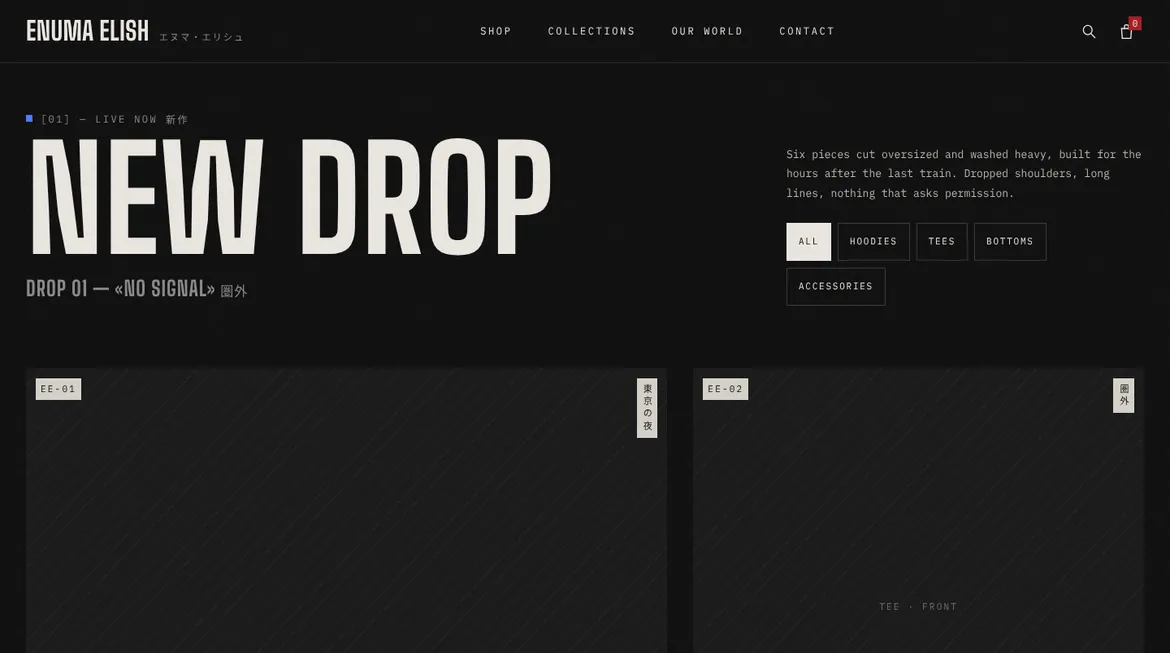
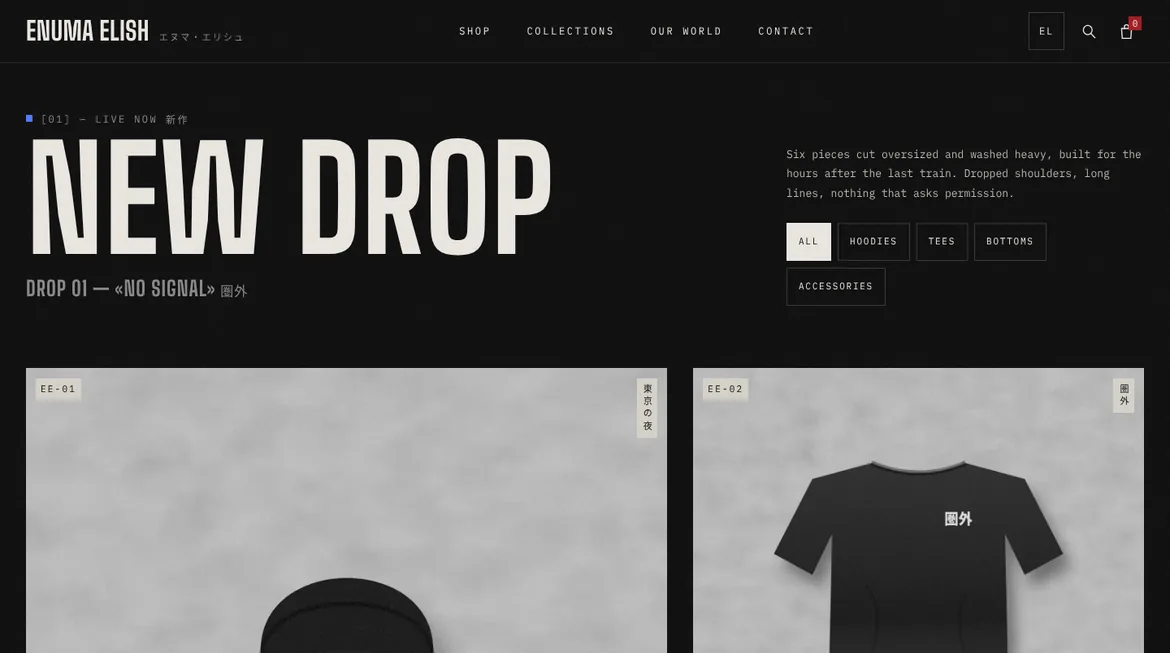
ENUMA demo: illustrated product and campaign visuals
19 original illustrations drawn in code (garment flat-lays, flash-lit wall
shots, Tokyo/Athens/campaign night scenes) replace the grey photo slots; the
concept note says the visuals are illustrations. Fix: the mobile hero grid
rule no longer collapses the desktop photo column. Portfolio previews and
og.jpg re-rendered.

Claude-Session: https://claude.ai/code/session_0146u7BHBs6wRtDsbGD3dXUU

diff --git a/enuma/js/data.js b/enuma/js/data.js
@@ -50,7 +50,7 @@ window.EE_DATA = {
       model: 'Model is 183 cm and wears size M.',
       fabric: ['480 GSM brushed-back fleece, 100% cotton', 'Garment-dyed and enzyme washed', 'Double-layer hood, heavy rib cuffs and hem'],
       care: 'Cold wash inside out. Do not tumble dry. Iron on the reverse of the print.',
-      images: [{ src: null, label: 'Hoodie · front' }, { src: null, label: 'Hoodie · on model' }, { src: null, label: 'Hoodie · back print' }]
+      images: [{ src: 'img/p1-a.webp', label: 'Hoodie · front' }, { src: 'img/p1-b.webp', label: 'Hoodie · on model' }, { src: 'img/p1-c.webp', label: 'Hoodie · back print' }]
     },
     {
       handle: 'no-signal-tee',
@@ -69,7 +69,7 @@ window.EE_DATA = {
       model: 'Model is 178 cm and wears size L.',
       fabric: ['240 GSM combed cotton jersey', 'Water-based screen print', 'Taped neck, double-needle hems'],
       care: 'Cold wash inside out. Line dry.',
-      images: [{ src: null, label: 'Tee · front' }, { src: null, label: 'Tee · back print' }]
+      images: [{ src: 'img/p2-a.webp', label: 'Tee · front' }, { src: 'img/p2-b.webp', label: 'Tee · back print' }]
     },
     {
       handle: 'exarchia-wall-tee',
@@ -88,7 +88,7 @@ window.EE_DATA = {
       model: 'Model is 175 cm and wears size M.',
       fabric: ['240 GSM combed cotton jersey', 'Discharge print, soft to the touch', 'Taped neck, double-needle hems'],
       care: 'Cold wash inside out. Line dry.',
-      images: [{ src: null, label: 'Tee · front' }, { src: null, label: 'Tee · detail' }]
+      images: [{ src: 'img/p3-a.webp', label: 'Tee · front' }, { src: 'img/p3-b.webp', label: 'Tee · detail' }]
     },
     {
       handle: 'last-train-cargo-pant',
@@ -107,7 +107,7 @@ window.EE_DATA = {
       model: 'Model is 183 cm and wears size M.',
       fabric: ['Brushed cotton twill, 320 GSM', 'Six pockets, YKK zip fly', 'Drawcord hem'],
       care: 'Cold wash inside out. Do not tumble dry.',
-      images: [{ src: null, label: 'Cargo · front' }, { src: null, label: 'Cargo · on model' }]
+      images: [{ src: 'img/p4-a.webp', label: 'Cargo · front' }, { src: 'img/p4-b.webp', label: 'Cargo · on model' }]
     },
     {
       handle: 'shibuya-static-crewneck',
@@ -126,7 +126,7 @@ window.EE_DATA = {
       model: 'Model is 180 cm and wears size L.',
       fabric: ['420 GSM loopback cotton', 'Garment-dyed', 'Rib collar, cuffs and hem'],
       care: 'Cold wash inside out. Do not tumble dry.',
-      images: [{ src: null, label: 'Crewneck · front' }, { src: null, label: 'Crewneck · on model' }]
+      images: [{ src: 'img/p5-a.webp', label: 'Crewneck · front' }, { src: 'img/p5-b.webp', label: 'Crewneck · on model' }]
     },
     {
       handle: 'monastiraki-track-pant',
@@ -145,15 +145,15 @@ window.EE_DATA = {
       model: 'Model is 178 cm and wears size M.',
       fabric: ['Brushed poly-cotton tricot', 'Side stripe tape', 'Zipped ankles and pockets'],
       care: 'Cold wash. Line dry.',
-      images: [{ src: null, label: 'Track pant · front' }, { src: null, label: 'Track pant · on model' }]
+      images: [{ src: 'img/p6-a.webp', label: 'Track pant · front' }, { src: 'img/p6-b.webp', label: 'Track pant · on model' }]
     }
   ],
   media: {
-    hero: { src: null, label: 'Hero · lifestyle', alt: 'A figure in the Tokyo After Dark Hoodie on a backstreet stairway at night', altEl: 'Μια φιγούρα με το Tokyo After Dark Hoodie σε σκάλες στενού τη νύχτα' },
-    tokyo: { src: null, label: 'Tokyo street', alt: 'A Tokyo backstreet at night', altEl: 'Ένα στενό στο Τόκιο τη νύχτα' },
-    athens: { src: null, label: 'Athens street', alt: 'Painted walls in Exarchia, Athens', altEl: 'Ζωγραφισμένοι τοίχοι στα Εξάρχεια, Αθήνα' },
-    campaign1: { src: null, label: 'Campaign 01', alt: 'Campaign photo on backstreet stairs', altEl: 'Φωτογραφία campaign σε σκάλες στενού' },
-    campaign2: { src: null, label: 'Campaign 02', alt: 'Campaign photo in Exarchia, Athens', altEl: 'Φωτογραφία campaign στα Εξάρχεια, Αθήνα' },
-    campaign3: { src: null, label: 'Campaign 03', alt: 'Campaign photo in Shibuya after the last train', altEl: 'Φωτογραφία campaign στη Shibuya μετά το τελευταίο τρένο' }
+    hero: { src: 'img/hero.webp', label: 'Hero · lifestyle', alt: 'A figure in the Tokyo After Dark Hoodie on a backstreet stairway at night', altEl: 'Μια φιγούρα με το Tokyo After Dark Hoodie σε σκάλες στενού τη νύχτα' },
+    tokyo: { src: 'img/tokyo.webp', label: 'Tokyo street', alt: 'A Tokyo backstreet at night', altEl: 'Ένα στενό στο Τόκιο τη νύχτα' },
+    athens: { src: 'img/athens.webp', label: 'Athens street', alt: 'Painted walls in Exarchia, Athens', altEl: 'Ζωγραφισμένοι τοίχοι στα Εξάρχεια, Αθήνα' },
+    campaign1: { src: 'img/campaign-1.webp', label: 'Campaign 01', alt: 'Campaign photo on backstreet stairs', altEl: 'Φωτογραφία campaign σε σκάλες στενού' },
+    campaign2: { src: 'img/campaign-2.webp', label: 'Campaign 02', alt: 'Campaign photo in Exarchia, Athens', altEl: 'Φωτογραφία campaign στα Εξάρχεια, Αθήνα' },
+    campaign3: { src: 'img/campaign-3.webp', label: 'Campaign 03', alt: 'Campaign photo in Shibuya after the last train', altEl: 'Φωτογραφία campaign στη Shibuya μετά το τελευταίο τρένο' }
   }
 };

diff --git a/enuma/js/i18n.js b/enuma/js/i18n.js
@@ -26,7 +26,7 @@ window.EE_EL = {
   'NEW ARRIVALS': 'ΝΕΕΣ ΑΦΙΞΕΙΣ', 'HOODIES': 'HOODIES', 'T-SHIRTS': 'T-SHIRTS', 'BOTTOMS': 'ΠΑΝΤΕΛΟΝΙΑ',
   'HELP': 'ΒΟΗΘΕΙΑ', 'SHIPPING': 'ΑΠΟΣΤΟΛΗ', 'RETURNS': 'ΕΠΙΣΤΡΟΦΕΣ', 'SIZE GUIDE': 'ΟΔΗΓΟΣ ΜΕΓΕΘΩΝ', 'PRIVACY': 'ΑΠΟΡΡΗΤΟ',
   'Concept project by': 'Concept έργο της',
-  '. ENUMA ELISH is a fictional brand: products, prices, stock and policies are samples. The bag works, but checkout and forms are demo-only and send nothing.': '. Το ENUMA ELISH είναι φανταστικό brand: τα προϊόντα, οι τιμές, το απόθεμα και οι πολιτικές είναι δείγματα. Το καλάθι λειτουργεί, αλλά το checkout και οι φόρμες είναι δοκιμαστικά και δεν στέλνουν τίποτα.',
+  '. ENUMA ELISH is a fictional brand: products, prices, stock and policies are samples, and the visuals are illustrations drawn for this concept. The bag works, but checkout and forms are demo-only and send nothing.': '. Το ENUMA ELISH είναι φανταστικό brand: τα προϊόντα, οι τιμές, το απόθεμα και οι πολιτικές είναι δείγματα, και τα visuals είναι εικονογραφήσεις φτιαγμένες για αυτό το concept. Το καλάθι λειτουργεί, αλλά το checkout και οι φόρμες είναι δοκιμαστικά και δεν στέλνουν τίποτα.',
   '© 2026 ENUMA ELISH (FICTIONAL)': '© 2026 ENUMA ELISH (ΦΑΝΤΑΣΤΙΚΟ)',
   'INSTAGRAM — TIKTOK': 'INSTAGRAM — TIKTOK',
 

diff --git a/enuma/js/app.js b/enuma/js/app.js
@@ -197,7 +197,7 @@
       </div>
     </div>
     <div class="d site-footer__wordmark" aria-hidden="true">ENUMA ELISH</div>
-    <p class="site-footer__concept">Concept project by <a href="${ADF}" target="_blank" rel="noopener">Athens Digital Frame</a>. ENUMA ELISH is a fictional brand: products, prices, stock and policies are samples. The bag works, but checkout and forms are demo-only and send nothing.</p>
+    <p class="site-footer__concept">Concept project by <a href="${ADF}" target="_blank" rel="noopener">Athens Digital Frame</a>. ENUMA ELISH is a fictional brand: products, prices, stock and policies are samples, and the visuals are illustrations drawn for this concept. The bag works, but checkout and forms are demo-only and send nothing.</p>
     <div class="site-footer__bottom"><span>© 2026 ENUMA ELISH (FICTIONAL)</span><span class="jp">東京 / ΑΘΗΝΑ</span><span>MADE AFTER 2 AM</span></div>
   </div>
 </footer>

diff --git a/enuma/css/style.css b/enuma/css/style.css
@@ -686,7 +686,8 @@ h1, h2, h3, h4 { font-weight: 900; overflow-wrap: break-word; }
 
 .hero__title .rv > span { white-space: nowrap; }
 .d { font-stretch: condensed; }
-.hero { grid-template-columns: minmax(0, 1fr); overflow: hidden; }
+.hero { overflow: hidden; }
+@media (max-width: 900px) { .hero { grid-template-columns: minmax(0, 1fr); } }
 
 /* language switch */
 .lang { height: 44px; min-width: 44px; display: flex; align-items: center; justify-content: center; font-size: 12px; letter-spacing: .16em; text-decoration: none; border: 1px solid var(--line-3); margin-right: 6px; }
